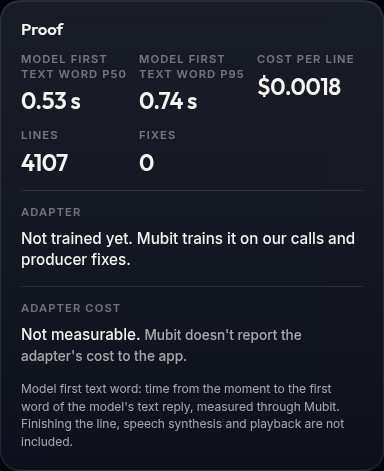
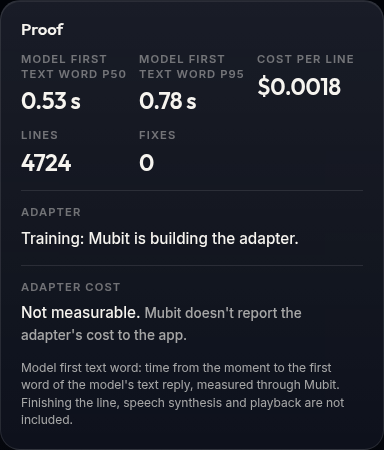
docs: adapter recorded as training at 13:04 UTC; dated /stats table restored (#143)

diff --git a/README.md b/README.md
@@ -14,7 +14,7 @@
 
 [**Try it live**](https://night-shift-5zvig7nbvq-ew.a.run.app) · [**For judges**](#for-judges) · [**Real numbers**](#real-numbers) · [**Architecture**](docs/ARCHITECTURE.md) · [**Known limitations**](#known-limitations) · [**Run it**](#run-it) · [**Demo script**](docs/demo.md)
 
-<img src="docs/img/live.png" alt="The live page calling Kobe Bryant's 81-point game. Top left, the score bar reads LAK 65-75 RAP, 06:22, Q3, REPLAY, and an ON AIR pill names the voice, Sam. The large subtitle reads: Kobe Bryant from 26 feet, three! Lakers down ten, 65 to 75, but Bryant's got 41 already. Under it, a dock with Wall, the four sports, Voice and Next match. On the right, the Lines card with an Ask box, a Shot map chip for Kobe Bryant and each line with a Fix button and its model first-text-word time, and the Proof card with first text word p50 0.53 s and p95 0.74 s, $0.0018 a line, the lines count, 0 fixes, and the adapter as not trained yet." width="100%">
+<img src="docs/img/live.png" alt="The live page calling Kobe Bryant's 81-point game. Top left, the score bar reads LAK 65-75 RAP, 06:22, Q3, REPLAY, and an ON AIR pill names the voice, Sam. The large subtitle reads: Kobe Bryant from 26 feet, three! Lakers down ten, 65 to 75, but Bryant's got 41 already. Under it, a dock with Wall, the four sports, Voice and Next match. On the right, the Lines card with an Ask box, a Shot map chip for Kobe Bryant and each line with a Fix button and its model first-text-word time, and the Proof card with first text word p50 0.53 s and p95 0.74 s, $0.0018 a line, the lines count, 0 fixes, and the adapter as not trained yet (before its status was recorded as training)." width="100%">
 
 <sub>The live site on 24 October 2026, captured in headless Chrome: Kobe Bryant's 81 against Toronto
 being called. YouTube won't play in a headless browser, so the video area is empty and the page says
@@ -139,7 +139,7 @@ any page until its hook-up lands after #146.
 
 #### The Proof panel
 
-<img src="docs/img/proof.png" alt="The Proof card: model first text word p50 0.53 s and p95 0.74 s, cost per line $0.0018, the lines count and 0 fixes; the adapter as not trained yet; adapter cost not measurable, because Mubit doesn't report it to the app; and a note on what first text word measures." width="50%">
+<img src="docs/img/proof.png" alt="The Proof card: model first text word p50 0.53 s and p95 0.78 s, cost per line $0.0018, the lines count and 0 fixes; the adapter: Training, Mubit is building the adapter; adapter cost not measurable, because Mubit doesn't report it to the app; and a note on what first text word measures." width="50%">
 
 Live latency, cost per line, lines called, fixes and the adapter's state, computed from the store and
 the same numbers as `GET /stats` ([`web/src/components/ProofPanel.tsx`](web/src/components/ProofPanel.tsx),
@@ -172,15 +172,15 @@ Each criterion weighs the same; one line each, with where to check it.
 ## Real numbers
 
 Read from the live service's [`GET /stats`](https://night-shift-5zvig7nbvq-ew.a.run.app/stats) on
-24 October 2026 at 12:56 UTC. They move as people use the site.
+24 October 2026 at 13:04 UTC, adapter status included. They move as people use the site.
 
 | | Big model (`claude-haiku-4-5` via Mubit) | Our trained commentator (Mubit adapter) |
 |---|---|---|
-| Lines called | live count in `lines` at [`/stats`](https://night-shift-5zvig7nbvq-ew.a.run.app/stats); each line's Mubit calls are counted by their request ids (`mubit_requests`) | none: not callable by the app |
-| First word of the model's text, p50 / p95 | 532 ms / 745 ms | not measured |
-| Full line, p50 / p95 | 876 ms / 1,109 ms | not measured |
+| Lines called | 4,715 (4,836 Mubit calls, counted by their request ids) | none: not callable by the app |
+| First word of the model's text, p50 / p95 | 534 ms / 779 ms | not measured |
+| Full line, p50 / p95 | 881 ms / 1,131 ms | not measured |
 | Cost per line | $0.0018 | not reported by Mubit |
-| Tokens per line, in / out | about 1,649 / 29 | not measured |
+| Tokens per line, in / out | about 1,648 / 29 (7,770,852 / 135,975 over 4,715 lines) | not measured |
 | Producer fixes | 0 so far; the first is made in the demo | |
 
 "First word" is from the moment to the first word of the model's text reply, not the audio:
@@ -189,9 +189,9 @@ speech synthesis and playback come after it.
 **The adapter, exactly as it stands.** Mubit has trained 6 adapters on our task. All 6 are "not
 ready": none has passed Mubit's test yet, and the best scored 55.8% on Mubit's test. That is the record in [`data/side_by_side.json`](data/side_by_side.json), copied by hand from
 Mubit's console on 24 October 2026. We make no claim that the adapter matches the big model until a
-result shows it. `/stats` still reports the adapter as `not_trained`, because it reads only what
-[`eval/record_adapter.py`](eval/record_adapter.py) has recorded, and no console result has been
-recorded there yet.
+result shows it. `/stats` reports the adapter's status as `training` (at 13:04 UTC), recorded from
+the console with [`eval/record_adapter.py`](eval/record_adapter.py); it reports no agreement result,
+because no version has passed.
 
 ## The problem
 
